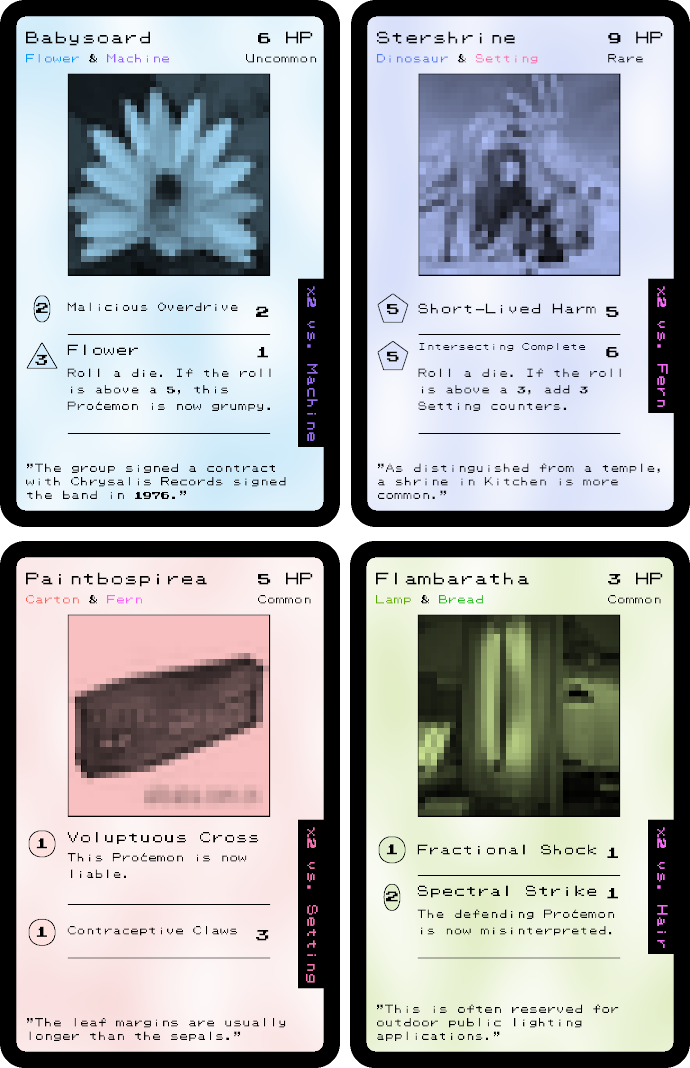
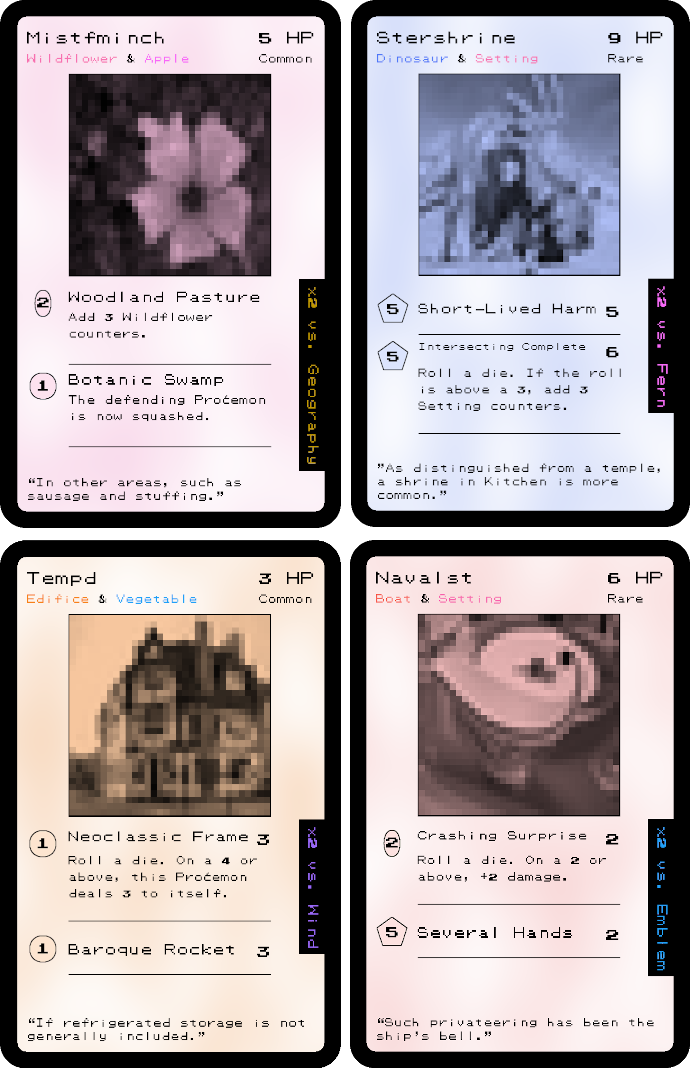
Updated the image of the cards in the README

diff --git a/setup.py b/setup.py
@@ -5,7 +5,7 @@ readme = Path('README.md').read_text(encoding='utf-8')
 
 setup(
     name='procemon',
-    version="1.2.0",
+    version="1.2.1",
     description='Procedurally generated trading card game',
     long_description=readme,
     long_description_content_type='text/markdown',

diff --git a/README.md b/README.md
@@ -75,6 +75,10 @@
 
 # Changelog
 
+## 1.2.1
+
+- Updated the image of the cards in the README
+
 ## 1.2.0
 
 - Removed types: Antelope, Mollusk, Raptor
